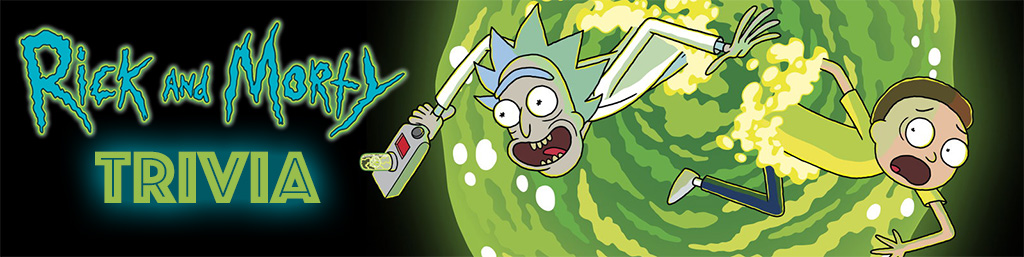
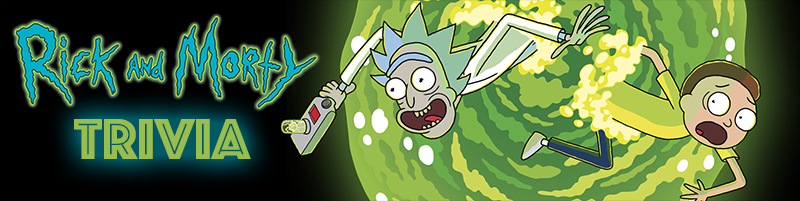
layout tweaks and code cleanup

diff --git a/assets/javascript/app.js b/assets/javascript/app.js
@@ -22,13 +22,13 @@
             answerImage: '<img class="answerImg" src="assets/images/inception.gif">',
         },
         {
-            question: "Beth (Morty's mom's) favorite drink is?",
+            question: "Beth's (Morty's mom's) favorite drink is?",
             answer: ["Orange juice", "Vodka", "Le Crap Sparking Flavored Water", "Wine"],
             correctAnswer: 3,
             answerImage: '<img class="answerImg" src="assets/images/drinks_wine.gif">',
         },
         {
-            question: "What the name of the blue creatures creatures created to serve a singular purpose for which they will go to any length to fulfill? (After they serve their purpose, they expire and vanish into the air.)",
+            question: "What the name of the blue creatures created to serve a singular purpose for which they will go to any length to fulfill?",
             answer: ["Glip glorps", "Flurbens", "Mr. Meeseeks", "Jerry"],
             correctAnswer: 2,
             answerImage: '<img class="answerImg"  src="assets/images/meeseeks.gif">',
@@ -52,7 +52,7 @@
             answerImage: '<img class="answerImg" src="assets/images/jerry_hulk.gif"></p></div>',
         },
        {
-            question: "Rick ends season 2 where:",
+            question: "Where is Rick at the end of Season 2 [SPOILER!]:",
             answer: ["Galactic Prison", "Going on an adventure with Morty", "At Birdperson's wedding", "Drunk in his workshop"],
             correctAnswer: 0,
             answerImage: '<img class="answerImg" src="assets/images/rick_prison.gif"></p></div>',
@@ -104,7 +104,6 @@
             var questionString = '';
             var questionNumDisplay = game.questionNum + 1;
             var answerNumDisplay = 1;
-            console.log(questions[game.questionNum].question);
             questionString = '<div class ="question">' + questionNumDisplay + '. ' + questions[game.questionNum].question + '</div>';
             for(var i=0; i < questions[game.questionNum].answer.length; i++) {
                 answerString += '<button class="answer" value="' + i + '">' + answerNumDisplay + '. ' + questions[game.questionNum].answer[i] + '</button>';
@@ -164,7 +163,8 @@
 
         gameOver: function() {
             timer.stopTimer();
-            $('#question-js').html('<img class="answerImg" src="assets/images/like_what_you_got.gif"></p></div><button id="start" class="btn">SHOW ME WHAT YOU GOT AGAIN!</button>');
+            $('#btn-holder-js').html('<button id="start" class="btn">PLAY AGAIN!</button>');
+            $('#question-js').html('<img class="answerImg" src="assets/images/like_what_you_got.gif"></p></div>');
             $('#timer-js').html('GAME OVER!')
             this.questionNum++;
             $('#start').on('click', function() {game.resetGame();})

diff --git a/index.html b/index.html
@@ -2,28 +2,28 @@
 <html lang="en-us">
     <head>
         <meta charset="UTF-8">
-        <title>Rick and MortyTrivia Game -- Joshua Miller</title>
+        <title>Rick and Morty Trivia Game -- Joshua Miller</title>
         <link href="assets/css/reset.css" rel="stylesheet">
         <link href="assets/css/style.css" rel="stylesheet">
-        <link href="https://fonts.googleapis.com/css?family=Bungee+Inline|Cutive+Mono" rel="stylesheet">
     </head>
 
     <body>
-        <div class="header"><img src="assets/images/Rick_Morty-Header.jpg"></div>
+    <div class="wrapper">
+        <div class="header"><img src="assets/images/Rick_Morty-Header.jpg" alt="Rick and Morty Trivia"></div>
 
         <div class="container">
 
             <div id="score-js" class="container content score-box">
 
-                <div class="score"><p>Yep</p>
+                <div class="score first"><p class="score-type">Yep</p>
                     <div id="correct-score">0</div>
                 </div>
 
-                <div class="score"><p>Nope</p>
+                <div class="score"><p class="score-type">Nope</p>
                     <div id="missed-score">0</div>
                 </div>
 
-                <div class="score"><p>Huh?</p>
+                <div class="score"><p class="score-type">Huh?</p>
                     <div id="no-answer-score">0</div>
                 </div>                   
                     
@@ -33,8 +33,6 @@
         <div id="timer-js" class="timer-box"></div>
 
         <div class="container">
-
-
             
             <div id="btn-holder-js"><button id="start" class="btn">SHOW ME WHAT YOU GOT!</button></div>
  
@@ -45,10 +43,10 @@
             </div>
 
         </div>
+    </div>
 
     <script src="https://code.jquery.com/jquery-3.1.1.js"></script>
     <script src="assets/javascript/app.js"></script>
-
     </body>
 
 </html>

diff --git a/assets/css/style.css b/assets/css/style.css
@@ -2,13 +2,24 @@
 
 * {
   box-sizing: border-box;
-  
+}
+
+body {
+	background-color: #00afc7;
 }
 
 p {
 	margin: 10px 0px;
 }
 
+.wrapper {
+	border: 1px solid;
+	width: 1024px;
+	margin: 0px auto;
+	height: 97vh;
+	background-color: #ffffff;
+	overflow: auto;
+}
 .btn {
 	display: block;
 	font-size: 18px;
@@ -17,27 +28,31 @@ p {
 }
 
 .header {
-	width: 100%;
+	width: 1024px;
 	background-color: #000000;
 	color: #ffffff;
-	height: 257px;
+	height: 201px;
 	text-align: center;
+	margin: 0px auto;
 }
 
 .timer-box {
-	font-size: 36px;
+	font-size: 34px;
 	height: 55px;
 	line-height: 55px;
-	background: #000000;
+	background: #99be4c;
 	color: #ffffff;
 	margin: 0px auto;
 	text-align: center;
 	font-family: helvetica;
 	font-weight: 800;
+	clear: both;
+	margin-bottom: 20px;
+
 }
 
 .container {
-	margin: 24px auto;
+	margin: 15px auto;
 	width: 1024px;
 	font-family: helvetica;
 	font-size: 20px;
@@ -79,17 +94,31 @@ p {
 }
 
 .question {
-	margin-bottom: 10px;
+	margin-bottom: 20px;
+	font-weight: 800;
+}
+
+.question-box {
+	margin: 35px auto;
 	font-weight: 800;
 }
 
 .score {
 	float: left;
-	font-size: 32px;
+	font-size: 28px;
 	width: 33.333%;
 	text-align: center;
-	font-weight: 800;
 	color: #303030;
 	margin-bottom: 10px;
+	font-weight: 300;
+	border-right: 1px dotted;
+}
+
+.first {
+	border-left: 1px dotted;
+}
+
+.score-type {
+	font-weight: 800;
 }
 
